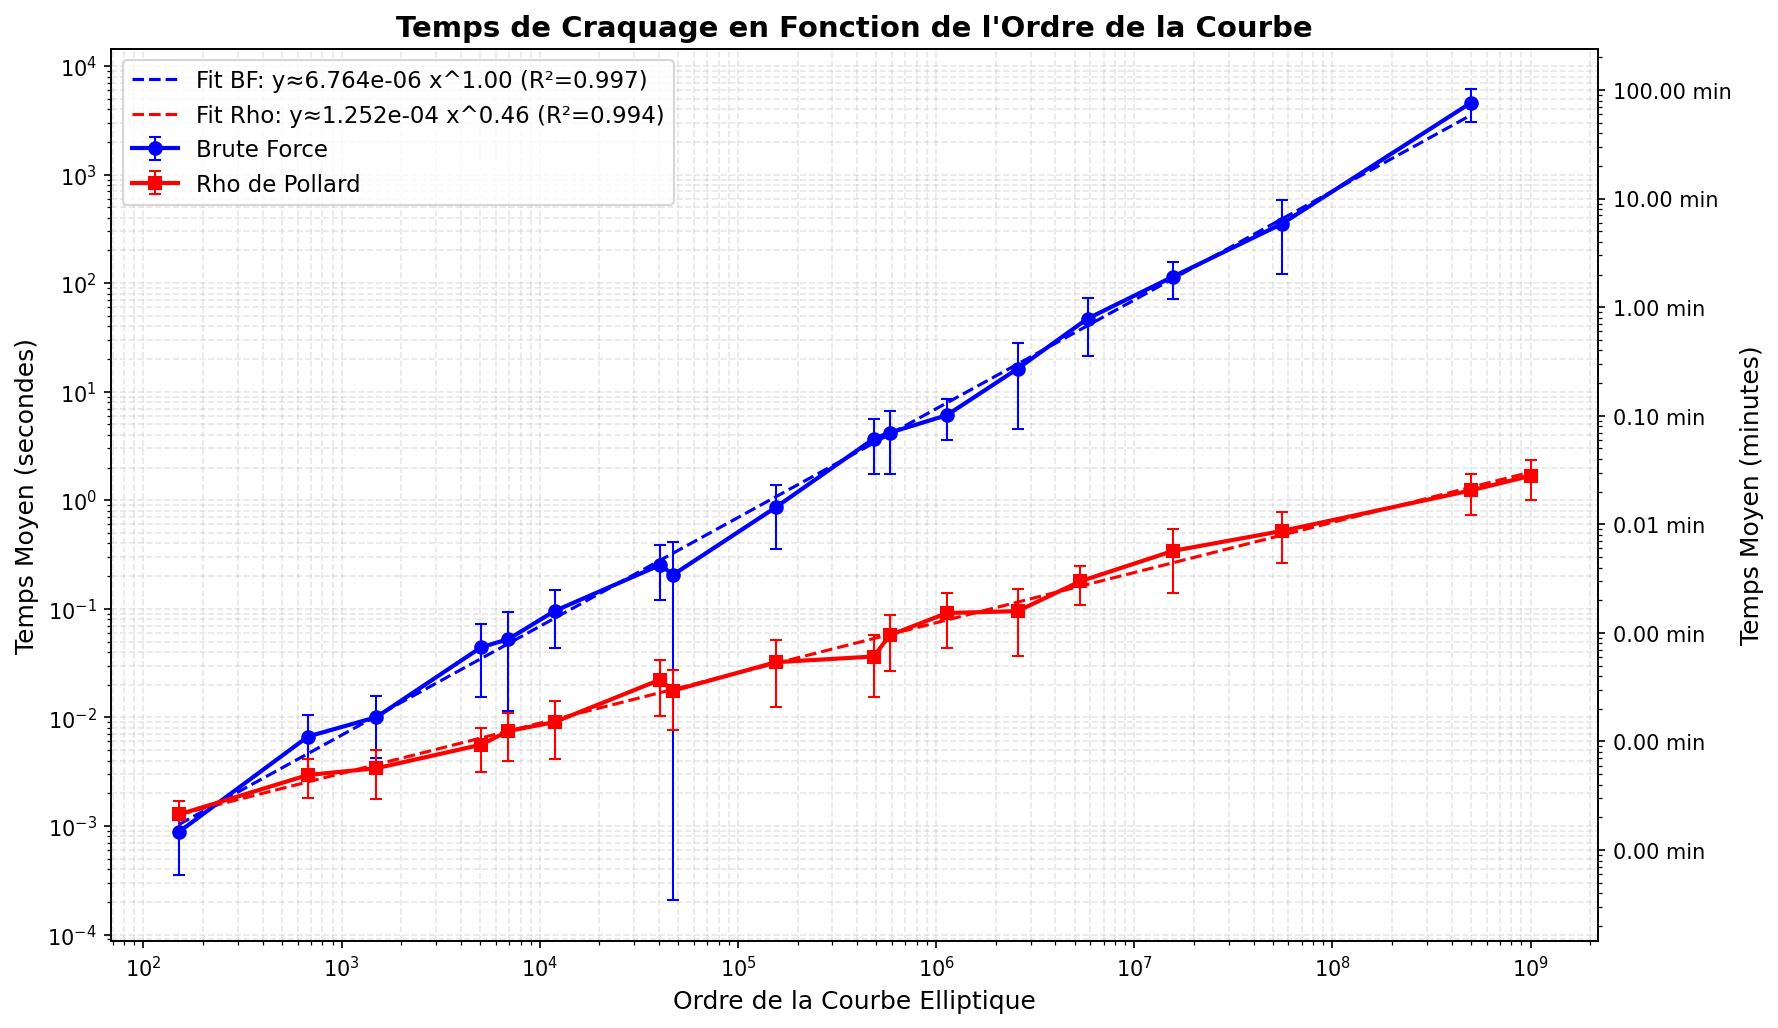
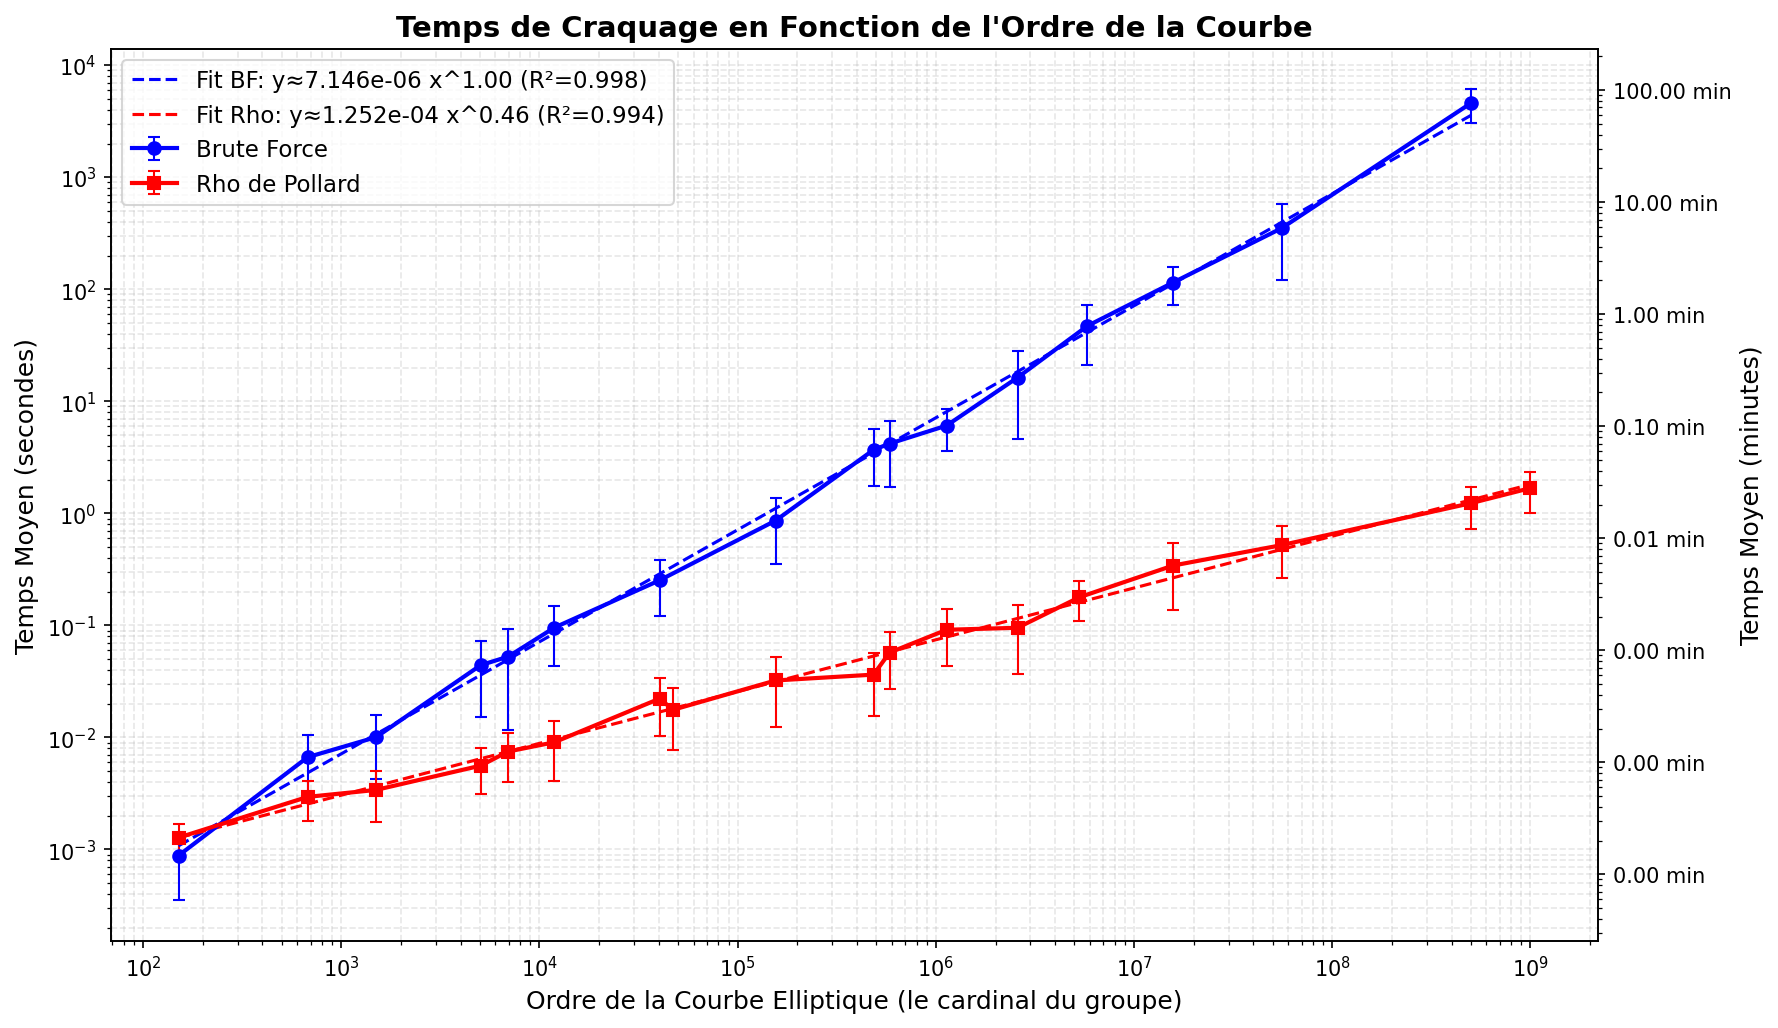
ekzhf

diff --git a/latex/diapo/template.tex b/latex/diapo/template.tex
@@ -30,6 +30,8 @@
 \usepackage{graphicx}
 \usepackage{grffile} % Better handling of file names with multiple dots and spaces
 \usepackage[utf8]{inputenc} % Accept UTF-8 in file names and source (use XeLaTeX/LuaLaTeX if issues remain)
+\usepackage{amsmath}
+\usepackage{amssymb}
 \usepackage{algorithm}
 \usepackage{algpseudocode}
 \usepackage{booktabs} % Allows the use of \toprule, \midrule and \bottomrule for better rules in tables
@@ -191,6 +193,14 @@
 
 \section{Construction d'un groupe} % Sections are added in order to organize your presentation into discrete blocks, all sections and subsections are automatically output to the table of contents as an overview of the talk but NOT output in the presentation as separate slides
 
+\begin{frame} % The optional argument 'plain' hides the headline and footline
+	\begin{center}
+		{\LARGE 1- Construction d'un groupe.}
+	\end{center}
+\end{frame}
+
+
+
 %------------------------------------------------
 
 \subsection{Les courbes elliptiques}
@@ -198,15 +208,15 @@
 \begin{frame}
 	\frametitle{Les courbes elliptiques}
 	
-	Une courbe elliptique est l'ensemble des points de coordonnées $(x,y)$ vérifiant l'équation :
+	Une courbe elliptique est l'ensemble des points de coordonnées $(x,y)$ vérifiant une équation de la forme :
 	$$ax^3 + bx^2y + cxy^2 + dy^3 + ex^2 + fxy + gy^2 + hx + iy + j = 0$$
-	où $a,b,c,d,e,f,g,h,i,j \in \mathbb{R}$ et $x,y \in \mathbb{K}$ où $\mathbb{K}$ est un corps.  
+	où $a,b,c,d,e,f,g,h,i,j \in \mathbb{K}$ et $x,y \in \mathbb{K}$ où $\mathbb{K}$ est un corps.  
 	
 	\bigskip % Vertical whitespace
 	\begin{figure}
 		\centering
 		\includegraphics[width=0.8\linewidth,height=0.45\textheight,keepaspectratio]{\detokenize{Images/CE.png}}
-		\caption{Courbe elliptique $y^2 = x^3 - 2x + 2 $.}
+		\caption{Courbe elliptique $y^2 = x^3 - 2x + 2 $. et $\mathbb{K} = \mathbb{R}$ }
 	\end{figure}
 
 \end{frame}
@@ -218,39 +228,54 @@
 	\frametitle{Plan projectif et point à l'infini}
 
 	\begin{definition}
-		Le \alert{plan projectif} $\mathbb{P}^2$ est l'ensemble des triplets de coordonnées homogènes $(x,y,z)$ 
-		où $(x,y,z) \in \mathbb{K}^3 \setminus \{(0,0,0)\}$.
+		Le \alert{plan projectif} $\mathbb{P}^2$ est l'ensemble des droites vectorielles de $\mathbb{K}^3$.
+		Cet ensembles est identifiable aux classes d'équivalence de la relation sur $\mathbb{R}^3$ définie par:\\
+		$(X,Y,Z) \mathcal{R} (X',Y',Z') \Leftrightarrow \exists k \in \mathbb{R}^* : (X',Y',Z') = k(X,Y,Z)$ .
 	\end{definition}	
 
 	\begin{definition}
-		Dans cette notation, les points admettant des coordonnées de la forme $(x , y , 0)$ forment la droite à l'infini.
-		Nous allons associer à la droite à l'infini un point particulier, appelé \alert{point à l'infini}.
+		Dans cette notation, les droites admettant des vecteurs directeurs de la forme $(X , Y , 0)$ forment la droite à l'infini.
+		Nous allons associer cette droite à un \alert{point à l'infini}.
 	\end{definition}
-
-	\underline{Forme de Weierstrass} :
-	Les équations des courbes elliptiques définies sur $\mathbb{R}$ (ou $\mathbb{Q}$) peuvent s'écrire sous la forme suivante
-	$$\boxed{y^2 = x^3 + ax + b}$$ 
-	où $a,b \in \mathbb{R}$ (ou $\mathbb{Q}$) telles que $(4a^3 + 27b^2) \neq 0$ pour que la courbe soit non singulière.
 
 
 \end{frame}
 
 %------------------------------------------------
+\begin{frame}
+	\frametitle{Forme de weierstrass}
+	
+	\underline{Forme de Weierstrass} :
+	Les équations des courbes elliptiques définies sur $\mathbb{R}$ (ou $\mathbb{Q}$) peuvent s'écrire sous la forme suivante
+	$$\boxed{(\frac{Y}{Z})^2 = (\frac{X}{Z})^3 + a(\frac{X}{Z}) + b}$$ 
+	où $a,b \in \mathbb{R}$ (ou $\mathbb{Q}$) telles que $(4a^3 + 27b^2) \neq 0$ pour que la courbe soit non singulière.\\
+	(pour qu'on puisse définir une tangeante à chaque endroit de la courbe)
 
+\end{frame}
+
+%------------------------------------------------
 \subsection{Construction de la loi de groupe}
 
 \begin{frame}
 	\frametitle{Construction de la loi de groupe}
 	
-	Nous allons définir une loi de groupe \alert{additive} géométriquement sur les points d'une courbe elliptique dans le plan projectif $(\mathbb{P}^2(\mathbb{E}),+)$.\\
+	Nous allons définir une loi \alert{additive} géométriquement sur les points d'une courbe elliptique dans le plan projectif $(\mathbb{P}^2(\mathbb{E}),+)$.\\
 	\begin{figure}
 		\centering
-		\includegraphics[width=0.8\linewidth,height=0.42\textheight,keepaspectratio]{\detokenize{Images/geogebra-export.png}}
+		\begin{minipage}{0.48\linewidth}
+			\centering
+			\includegraphics[width=\linewidth,height=0.42\textheight,keepaspectratio]{\detokenize{Images/loi de groupe.png}}
+		\end{minipage}
+		\hfill
+		\begin{minipage}{0.48\linewidth}
+			\centering
+			\includegraphics[width=\linewidth,height=0.42\textheight,keepaspectratio]{\detokenize{Images/geogebra-export.png}}
+		\end{minipage}
 	\end{figure}
 		
-	Cette loi de groupe est définie de la manière suivante :
+	Cette loi est définie de la manière suivante :
 	\begin{itemize}
-		\item $ P * Q = R $ où $R$ est le troisième point d'intersection de la droit $(PQ)$ avec la courbe elliptique.
+		\item $ P * Q = R $ où $R$ est le troisième point d'intersection de la droite $(PQ)$ avec la courbe elliptique.
 		\item $ P + Q = P * Q * O $ où $O$ est le point à l'infini.
 	\end{itemize}
 
@@ -286,7 +311,7 @@
 	\end{cases} $
 	où $ \lambda = \frac{y_1 - y_2}{x_1 - x_2} \text{ et } \nu = y_1 - \lambda x_1 $\\
 	\bigskip
-	Ce qui forme bien une loi de groupe associative, commutative avec pour neutre $O$ et qui pour tout point $P$ admet un inverse $-P$.	 
+	Ce qui forme une \alert{loi de groupe} sur un corps $\mathbb{K}$ quelconque qui est associative, commutative avec pour neutre $O$ et qui pour tout point $P$ admet un inverse $-P$.	 	 
 
 \end{frame}
 %------------------------------------------------
@@ -299,12 +324,14 @@
 		Un \alert{groupe cyclique} est un groupe à la fois monogène et fini.
 		Il existe un élément $g$ du groupe tel que tous les éléments du groupe soient un multiple de $g$.
 	\end{definition}
-	Pour tout groupe cyclique $\mathbb{G}$ il existe $n \in \mathbb{N}$ tel que $\mathbb{G}  \sim \mathbb{Z}/n\mathbb{Z} $.
+	Pour tout groupe cyclique $\mathbb{G}$ il existe $o \in \mathbb{N}$ tel que $\mathbb{G}  \sim \mathbb{Z}/o\mathbb{Z} $.
 	\begin{block}{Application aux courbes elliptiques}
 		Pour chaque couple d'entiers $(x,y)$ vérifiant l'équation de la courbe elliptique, on applique un modulo à $x$ et à $y$.
 		L'équation de la courbe devient donc :
-		$$y^2 = x^3 + ax + b \mod n $$
+		$y^2 = x^3 + ax + b \mod o $
 	\end{block}
+	Dans ce cas le plan projectif est fini, donc les courbes
+	elliptiques le sont aussi. Et on peut obtenir un groupe monogène donc cyclique.
 \end{frame}
 
 %------------------------------------------------
@@ -327,7 +354,17 @@
 %------------------------------------------------
 
 \section{Cryptosystème d'ElGamal}
+%------------------------------------------------
 
+\begin{frame} % The optional argument 'plain' hides the headline and footline
+	\begin{center}
+		{\LARGE 2- Cryptosystème d'ElGamal}
+	\end{center}
+\end{frame}
+
+
+
+%------------------------------------------------
 \subsection{ElGamal}
 
 \begin{frame}
@@ -390,37 +427,44 @@
 
 \begin{frame}
 	\frametitle{Logarithme discret}
+	Pour $(\mathbb{G},x)$ cyclique d'ordre $o$.\\ 
+	Soient \(P,G \in (\mathbb{G},x)\), \(s \in \mathbb{N}\), tel que $G$ est un générateur de $(\mathbb{G},x)$.\\
+	Le \alert{logarithme discret} est la fonction \underline{réciproque} de l’exponentiation discrète :
+	\[
+	s \mapsto G^s \pmod n
+	\]
 	
-	\begin{block}{Logarithme discret}
-		Soient \(P,G \in (\mathbb{Z}/n\mathbb{Z},x)\), \(s \in \mathbb{N}\),\\
-		le logarithme discret est la fonction \alert{réciproque} de l’exponentiation discrète :
-		\[
-		s \mapsto G^s \pmod n
-		\]
-		
-		\(s\) est le plus petit entier naturel vérifiant
-		\[
-		P = G^s,
-		\]
-		\(s\) est donc appelé le \textbf{logarithme discret} en base \(G\).
-	\end{block}
+	"\(s\)" est le plus petit entier naturel vérifiant.
+	\[
+	P = G^s,
+	\]
+	"\(s\)" est donc appelé le \textbf{logarithme discret} en base \(G\).\\
+	On remarque d'ailleurs que la classe de congruence de \(s\) modulo \(o\) est aussi solution.
 
 	\bigskip
 
-	\textbf{Exemple :} Dans \((\mathbb{Z}/7\mathbb{Z},x)\) :
-
-	\[
-	\log_3(6) = 3
+	\textbf{Exemple :} Dans \((\mathbb{Z}/7\mathbb{Z},x)^*\) :
+	$\log_3(6) = 3
 	\quad \text{car} \quad
-	3^3 \bmod 7 = 27 \bmod 7 = 6
-	\]
+	3^3 \bmod 7 = 27 \bmod 7 = 6$
+	
 
 \end{frame}
 
 %------------------------------------------------
 
 \section{Attaque du chiffrement}
+%------------------------------------------------
 
+\begin{frame} % The optional argument 'plain' hides the headline and footline
+	\begin{center}
+		{\LARGE 3- Attaque du chiffrement}
+	\end{center}
+\end{frame}
+
+
+
+%------------------------------------------------
 \subsection{Attaque par force brute}
 
 \begin{frame}
@@ -548,6 +592,27 @@
 
     \end{algorithmic}
 \end{frame}
+
+%------------------------------------------------
+
+\begin{frame}
+    \frametitle{Algorithme du rho de Pollard : collision}
+	Durant la boucle on a :\\
+	\[
+	x = aG + bP \quad\text{et}\quad X = AG + BP	
+	\]
+	a (resp. A) est incrémenté par la fonction g et b (resp. B) par la fonction h.\\
+	
+	\bigskip
+	Lorsque $x = X$ (condition d'arrêt), on a \\
+	\begin{align*}
+		&aG + bP = AG + BP \\
+		&(a - A)G = (B - b)P \\
+		&(a - A)G = (B - b)sG \\
+		&s = (a - A)(B - b)^{-1} \bmod n
+	\end{align*}
+\end{frame}
+
 %------------------------------------------------
 
 \subsection{Les kangourous de Pollard}
@@ -588,7 +653,17 @@
 %------------------------------------------------
 
 \section{Comparaison des algorithmes}
+%------------------------------------------------
 
+\begin{frame} % The optional argument 'plain' hides the headline and footline
+	\begin{center}
+		{\LARGE 4- Comparaison des algorithmes}
+	\end{center}
+\end{frame}
+
+
+
+%------------------------------------------------
 \begin{frame}
 	\begin{itemize}
 		\item Pourquoi le logarithme discret est-il considéré comme un problème difficile ?
@@ -678,6 +753,13 @@
 %----------------------------------------------------------------------------------------
 \appendix
 \section*{Annexes}
+
+\begin{frame} % The optional argument 'plain' hides the headline and footline
+	\begin{center}
+		{\LARGE 5- Annexes}
+	\end{center}
+\end{frame}
+
 
 \begin{frame}
 	\frametitle{Annexes}

diff --git a/crack/module/plot_perf.py b/crack/module/plot_perf.py
@@ -234,7 +234,7 @@ def generate_perf_graph(show=False, output_path=None, verbose=True):
             y_fit = fit_rho['a'] * (x_fit ** fit_rho['b'])
             ax.plot(x_fit, y_fit, '--', color='red', linewidth=1.5, label=f"Fit Rho: y≈{fit_rho['a']:.3e} x^{fit_rho['b']:.2f} (R²={fit_rho['r2']:.3f})")
 
-    ax.set_xlabel('Ordre de la Courbe Elliptique', fontsize=12)
+    ax.set_xlabel('Ordre de la Courbe Elliptique (le cardinal du groupe)', fontsize=12)
     ax.set_ylabel('Temps Moyen (secondes)', fontsize=12)
     ax.set_title('Temps de Craquage en Fonction de l\'Ordre de la Courbe', fontsize=14, fontweight='bold')
 